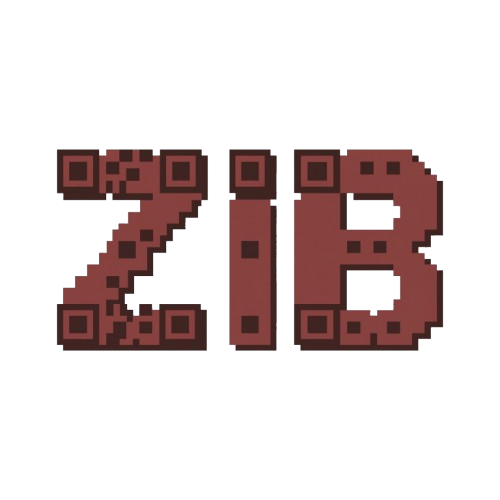
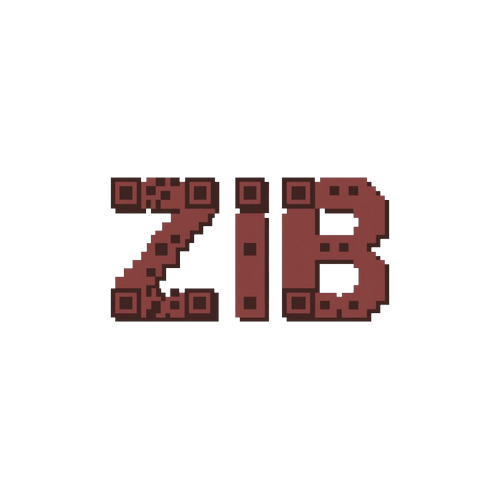
chore(app): rename app to ZIB QR Attendance
fix(icon): shrink Android adaptive icon logo to fit

Changed region(s): [[0.09, 0.3, 0.9, 0.72]]

diff --git a/components/KeyboardAvoid.tsx b/components/KeyboardAvoid.tsx
@@ -3,9 +3,6 @@ import { KeyboardAvoidingView } from 'react-native';
 
 import { COLORS } from '@/constants/colors';
 
-// Pushes its content up when the keyboard opens so inputs stay visible.
-// Android is edge-to-edge (app.json), so the system no longer resizes the
-// screen for the keyboard; 'padding' handles it on both Android and iOS.
 export default function KeyboardAvoid({ children }: { children: ReactNode }) {
   return (
     <KeyboardAvoidingView

diff --git a/components/Header.tsx b/components/Header.tsx
@@ -23,7 +23,7 @@ const styles = StyleSheet.create({
     alignItems: 'center',
     paddingVertical: 24,
   },
-  // The logo is a wide wordmark (about 1.9:1), so it gets a wide box.
+  
   logo: {
     width: 150,
     height: 80,

diff --git a/README.md b/README.md
@@ -1,62 +1,168 @@
-   ## Download the APK
+# ZIB QR Attendance
 
-   The APK attached to my submission is an earlier build that crashes on launch (missing Supabase env vars).
-   The fixed build is here: [Download / build page](https://expo.dev/accounts/zacxhy1/projects/QR-ATT/builds/cbf1557d-c494-4667-b962-3d470679507e)
+A mobile app for managing school event attendance with QR codes. Teachers and
+admins create events and show a QR code; students scan it to record their
+attendance. Built for the Event-Driven Programming final project (QR-ATT).
 
-# SETUP COMMANDS — QR Attendance App
+**Stack:** Expo (React Native, expo-router, TypeScript) · Supabase (Auth,
+PostgreSQL, Row Level Security, Realtime) · expo-camera
 
-> **Target:** First-year students | **Expo SDK:** 54 | **Expo Go:** 54.0.8
-
----
-
-## PREREQUISITES
-
-| Tool | Download | Verify |
-|---|---|---|
-| Node.js (LTS) | https://nodejs.org/en | `node --version` |
-| VS Code | https://code.visualstudio.com | (open it) |
-| Expo Go 54.0.8 | Play Store → "Expo Go" | (version in app settings) |
+> **APK / build link:** _paste your latest EAS build link here_
 
 ---
 
-## STEP 1 — Create the App
+## Features
 
-```powershell
-cd D:\QR-ATT
-npx create-expo-app@latest qr-att
-
-# When prompted, select "SDK 54"
-# Wait for npm install (~2 min)
-```
-
----
-
-## STEP 2 — Install Matching Versions
-
-The default install may need these fixed versions that match Expo Go 54.0.8:
-
-```powershell
-npm install expo@~54.0.35 react@19.1.0 react-native@0.81.5 expo-router@~6.0.24 @expo/vector-icons@^15.0.3 expo-linking@~8.0.12 expo-constants@~18.0.13 expo-font@~14.0.12 expo-status-bar@~3.0.9 expo-splash-screen@~31.0.13 react-native-screens@~4.16.0 react-native-safe-area-context@~5.6.0 react-native-gesture-handler@~2.28.0 react-native-reanimated@~4.1.1 react-dom@19.1.0 react-native-web@~0.21.0 @types/react@~19.1.0 typescript@~5.9.2 --legacy-peer-deps
-```
-
----
-
-## STEP 3 — Start
-
-```powershell
-npx expo start
-```
-
-Scan QR code with Expo Go. Or press `W` for web.
-
----
-
-## TROUBLESHOOTING
-
-| Problem | Solution |
+| Role | What they can do |
 |---|---|
-| npm install fails | Use `npm install --legacy-peer-deps` |
-| App crashes in Expo Go | Make sure all versions match STEP 2 exactly |
-| QR won't scan | Phone + computer on same WiFi |
-| White screen | Wait 10s, or shake → Reload |
-| TypeScript errors | Run `npx tsc --noEmit` |
+| **Student** | Register / log in, edit profile (name, student number, section, program), browse events, scan a QR (camera or gallery), see a confirmation (present or late), view personal attendance history |
+| **Teacher** | Create, edit, close and reopen events, show the event QR, regenerate the QR if it leaks, view attendance per event with present / late counts |
+| **Admin** | Everything a teacher can do on any event, plus manage users and roles, view all attendance, correct a record (present ↔ late) or delete it, delete events, see system stats |
+
+Other behaviour:
+
+- **Late detection.** Each event has a "late after" grace period; the database
+  marks a scan `present` or `late` automatically.
+- **Live updates.** Lists refresh through Supabase Realtime, and event badges
+  (Upcoming / Open now / Ended / Closed) update on a 30-second timer.
+- **Feedback states.** Loading, success, errors, empty lists, invalid QR,
+  duplicate attendance, closed / not started / ended event, and locked screens
+  for the wrong role.
+- **Password reset** with an emailed code, and email confirmation on sign-up.
+
+---
+
+## How attendance works
+
+1. A teacher creates an event. The database generates a random **QR secret**
+   for it (stored in its own table, readable only by the creator and admins).
+2. The app shows a QR containing the event code and that secret.
+3. A student scans it. The app calls one database function,
+   `record_attendance(event_code, token)`.
+4. The function checks, in this order: signed in → student role → event
+   exists and the secret matches → event is open → inside its time window →
+   not a duplicate. It then inserts the record; a trigger stamps the time and
+   sets `present` / `late`.
+5. The student sees a green or red result card.
+
+Students have **no direct INSERT permission** on `attendance`, so the checks
+cannot be skipped by calling the API directly.
+
+---
+
+## Project structure
+
+```
+app/
+  _layout.tsx          Root layout; routes guarded by login state
+  login.tsx  register.tsx  forgot-password.tsx
+  (tabs)/
+    _layout.tsx        Role-based tab bar + redirect guard
+    index.tsx          Home
+    events.tsx         Student: browse events
+    scan.tsx           Student: QR scanner
+    history.tsx        Student history / teacher attendance sheets
+    teacher.tsx        Teacher & admin: create / manage events, show QR
+    admin.tsx          Admin: users, events, attendance, stats
+    profile.tsx        Profile, sign out
+components/            Header, AppButton, PasswordInput, KeyboardAvoid
+constants/colors.ts    Color palette
+lib/
+  supabase.ts          Supabase client (session in SecureStore)
+  auth.ts              signUp, signIn, signOut, password reset, session state
+  role.ts              Role lookup + which tabs each role can open
+  events.ts  attendance.ts  admin.ts  profiles.ts   Data access
+  qr.ts                Build / parse the QR payload
+  realtime.ts          useRealtimeRefresh (Supabase Realtime, debounced)
+  validation.ts  format.ts
+supabase/schema.sql    Full database schema, policies, functions, triggers
+EVENT_FLOW.md          Event → Handler → Action → Result map (for the defense)
+```
+
+---
+
+## Database
+
+Defined in [`supabase/schema.sql`](supabase/schema.sql), which is safe to re-run.
+
+| Table | Purpose | Key relationships |
+|---|---|---|
+| `profiles` | One row per user: name, email, role, student number, section, program | `id` → `auth.users` |
+| `events` | Event name, code, venue, description, start/end, status (open/closed), grace minutes | `created_by` → `auth.users` |
+| `attendance` | One scan: student, event, time, status | `student_id` → `auth.users`, `event_id` → `events`; **unique (student_id, event_id)** |
+| `event_secrets` | The QR secret per event | `event_id` → `events` |
+
+Functions and triggers:
+
+- `handle_new_user` — every sign-up becomes a **student**; the role in sign-up
+  data is ignored.
+- `protect_profile_role` — only admins can change roles; the last admin cannot
+  be demoted; users cannot change their own id or email.
+- `set_attendance_status` — sets scan time and present / late on the server.
+- `create_event_secret` — creates the QR secret for each new event.
+- `record_attendance` / `rotate_event_secret` — the only way to record
+  attendance and to invalidate an old QR.
+- `my_role`, `is_admin`, `is_staff` — helpers used by the policies.
+
+---
+
+## Security
+
+- **Authentication:** Supabase Auth; the session is stored in the device's
+  SecureStore; sign-out clears it.
+- **Authorization:** enforced by Row Level Security on every table, not only
+  in the UI. Hiding a tab is a convenience; the database is the real gate.
+- **Roles can't be self-assigned:** sign-up always creates a student; only an
+  admin can promote someone (trigger-enforced).
+- **Attendance integrity:** server-side function, unique constraint against
+  duplicates, server-set time and status.
+- **QR secret:** unreadable by students; can be regenerated at any time.
+- **Credentials:** only the public anon key is in the app (`.env`, not
+  committed). Never put the service-role key in this project.
+- **Input validation:** email / password rules in `lib/validation.ts`,
+  length and time-order checks in the database.
+
+---
+
+## Setup
+
+**Requirements:** Node.js LTS, a Supabase project, and either an Android
+device with a development build or the Expo Go version that matches the
+project's Expo SDK (see `package.json`).
+
+1. **Install**
+   ```bash
+   npm install
+   ```
+2. **Environment** — copy `.env.example` to `.env` and fill in your project's
+   values (Supabase → Project Settings → API):
+   ```
+   EXPO_PUBLIC_SUPABASE_URL=...
+   EXPO_PUBLIC_SUPABASE_ANON_KEY=...
+   ```
+3. **Database** — open Supabase → SQL Editor, paste all of
+   `supabase/schema.sql`, and run it.
+4. **Auth settings** (Supabase → Authentication):
+   - URL Configuration → **Site URL:** `qr-attendance://login`
+   - URL Configuration → **Redirect URLs:** add `qr-attendance://**`
+   - Email Templates → **Reset Password** must include `{{ .Token }}` so the
+     emailed code works.
+5. **First admin** — register an account in the app, then in the SQL Editor:
+   ```sql
+   update public.profiles set role = 'admin' where email = 'you@example.com';
+   ```
+   After that, promote teachers from the Admin tab.
+6. **Run**
+   ```bash
+   npx expo start -c
+   ```
+   For an installable build: `eas build --profile preview --platform android`.
+
+---
+
+## Known limitations
+
+- The QR is a fixed secret per event, so a photo or screenshot of it can be
+  shared. A teacher can regenerate it; a rotating QR would remove the risk.
+- No offline mode: scanning needs an internet connection.
+- No push notifications or analytics dashboard yet.
